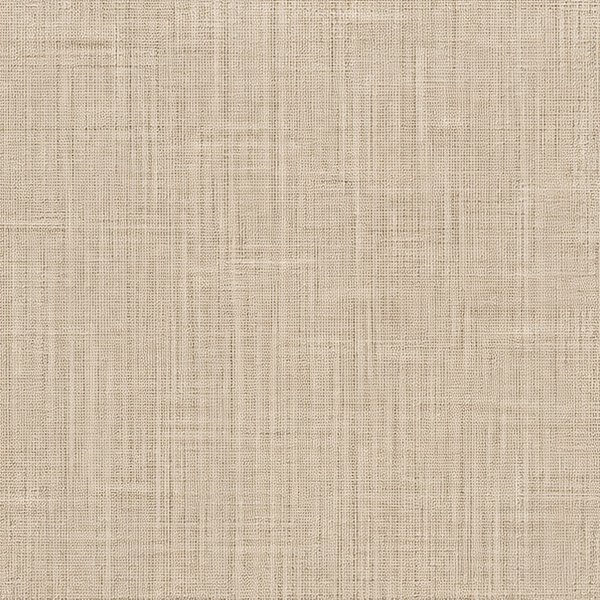
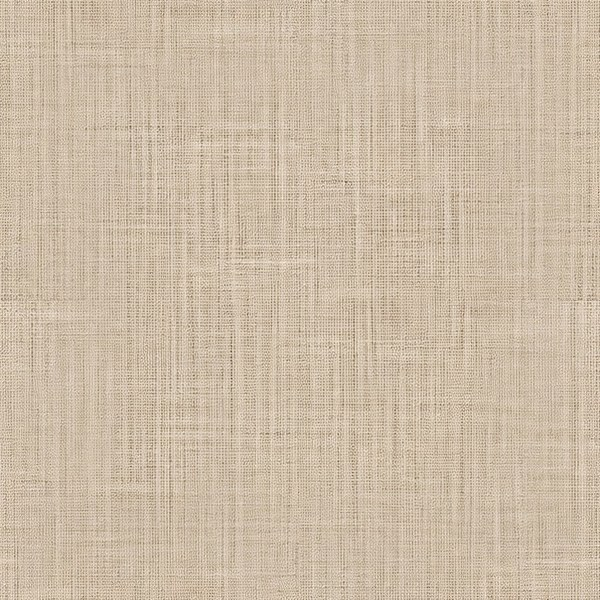
Klak 1.0.3: retorno lento con el sonido, papel bajo el rodillo, mesa sin costuras
Claude-Session: https://claude.ai/code/session_01BV8Ciis3MjNF3RSZpfggBD

Changed region(s): [[0.0, 0.0, 1.0, 1.0]]

diff --git a/js/klak.js b/js/klak.js
@@ -1,8 +1,8 @@
 /* Klak · máquina de escribir para notas y diario
-   Versión 1.0.2 */
+   Versión 1.0.3 */
 (function () {
 'use strict';
-const VERSION = '1.0.2';
+const VERSION = '1.0.3';
 const $ = (s, r = document) => r.querySelector(s);
 const $$ = (s, r = document) => Array.from(r.querySelectorAll(s));
 const esc = s => String(s).replace(/[&<>"]/g, c => ({ '&': '&amp;', '<': '&lt;', '>': '&gt;', '"': '&quot;' }[c]));
@@ -461,7 +461,7 @@ function place(retorno) {
   const sheet = edSheets.children[cp]; if (!sheet) return;
   const lineTop = sheet.offsetTop + G.padT + row * G.lh;
   const target = Math.max(0, lineTop + G.lh - edScroll.clientHeight + 30);
-  smoothScroll(target);
+  smoothScroll(target, retorno ? 320 : 140);
   const caretX = G.padL + caret.col * G.cw;
   let px;
   if (G.mode === 'a4') {
@@ -472,6 +472,11 @@ function place(retorno) {
     edSheets.style.transform = 'none';
     px = (G.zw - G.w) / 2 + caretX;
   }
+  const feed = $('#edFeed');
+  feed.classList.toggle('carro', G.mode === 'a4'); feed.classList.toggle('ret', !!retorno);
+  feed.style.width = G.w + 'px';
+  feed.style.transform = G.mode === 'a4' ? `translateX(${(px - caretX).toFixed(1)}px)` : `translateX(${((G.zw - G.w) / 2).toFixed(1)}px)`;
+  edPointer.classList.toggle('ret', !!retorno); edRibbon.classList.toggle('ret', !!retorno); edType.classList.toggle('ret', !!retorno);
   edPointer.style.left = px.toFixed(1) + 'px';
   placeMachine(px);
 }
@@ -506,12 +511,12 @@ function strike(ch) {
   hitT1 = setTimeout(() => edType.classList.remove('hit'), 55);
   hitT2 = setTimeout(() => edRibbon.classList.remove('hit'), 85);
 }
-function smoothScroll(to) {
+function smoothScroll(to, dur = 140) {
   cancelAnimationFrame(scrollAnim);
   const from = edScroll.scrollTop, d = to - from;
   if (Math.abs(d) < 1) return;
   if (Math.abs(d) > 600) { edScroll.scrollTop = to; return; }
-  const t0 = performance.now(), dur = 140;
+  const t0 = performance.now();
   const step = t => { const p = Math.min(1, (t - t0) / dur); edScroll.scrollTop = from + d * (1 - Math.pow(1 - p, 3)); if (p < 1) scrollAnim = requestAnimationFrame(step); };
   scrollAnim = requestAnimationFrame(step);
 }

diff --git a/css/klak.css b/css/klak.css
@@ -463,3 +463,24 @@ input[type=search]::-webkit-search-cancel-button{display:none}
 .pp-item .acts{margin-left:auto;align-items:center}
 .prev{color:#1F1B18}
 #vAjustes::after,#vPapelera::after{background:radial-gradient(ellipse 110% 72% at 50% 48%,rgba(255,200,130,.1) 0%,rgba(14,10,6,0) 52%,rgba(14,10,6,.55) 84%,rgba(10,8,6,.82) 100%)}
+
+/* retorno de carro: lento, a la vez que el sonido */
+.ed-sheets.carro.ret{transition:transform 1.25s cubic-bezier(.55,0,.2,1) .08s}
+.ed-ribbon.ret,.ed-type.ret{transition:transform 1.25s cubic-bezier(.55,0,.2,1) .08s,opacity .2s}
+.ed-pointer.ret{transition:left 1.25s cubic-bezier(.55,0,.2,1) .08s}
+
+/* el papel baja por detrás de la varilla y entra en el rodillo */
+.ed-roll{background:none;filter:none}
+.ed-roll::after{content:'';position:absolute;inset:0;background:url(../img/rodillo.png) center/100% 100% no-repeat;filter:drop-shadow(0 6px 6px rgba(0,0,0,.5))}
+#vEditor.lamp .ed-roll{filter:none}
+#vEditor.lamp .ed-roll::after{filter:drop-shadow(0 6px 6px rgba(0,0,0,.5)) brightness(.72)}
+.ed-feed{position:absolute;left:0;top:-2px;height:56%;background:var(--paper) center top/300px repeat;transform-origin:0 0;
+  box-shadow:0 0 0 1px rgba(0,0,0,.04);
+  -webkit-mask:linear-gradient(180deg,#000 70%,rgba(0,0,0,.85));mask:linear-gradient(180deg,#000 70%,rgba(0,0,0,.85))}
+.ed-feed::after{content:'';position:absolute;inset:0;background:linear-gradient(180deg,rgba(0,0,0,0) 0%,rgba(0,0,0,.06) 45%,rgba(20,14,8,.42) 100%)}
+.ed-feed.carro{transition:transform .07s ease-out}
+.ed-feed.carro.ret{transition:transform 1.25s cubic-bezier(.55,0,.2,1) .08s}
+#vEditor.sinCinta .ed-feed{opacity:0}
+/* que la pantalla llegue hasta abajo en la app instalada */
+html,body{background:#0A0908}
+.view{bottom:auto;height:100%;height:100lvh}

diff --git a/index.html b/index.html
@@ -54,7 +54,7 @@
     <div class="lamp-light" id="lampLight"></div>
     <div class="ed-hint" id="edHint"></div>
   </div>
-  <div class="ed-roll"></div>
+  <div class="ed-roll"><div class="ed-feed" id="edFeed"></div></div>
   <div class="ed-kb" id="edKb"><div class="kb-plate"></div><div class="kb-rows" id="kbRows"></div></div>
   <textarea id="iosInput" autocapitalize="sentences" autocomplete="off" autocorrect="on" spellcheck="false" aria-label="Escribir"></textarea>
   <div class="accent-pop" id="accentPop"></div>

diff --git a/sw.js b/sw.js
@@ -1,5 +1,5 @@
-/* Klak · service worker · versión 1.0.2 */
-const CACHE = 'klak-1.0.2';
+/* Klak · service worker · versión 1.0.3 */
+const CACHE = 'klak-1.0.3';
 const FILES = [
   './',
   './css/klak.css',
